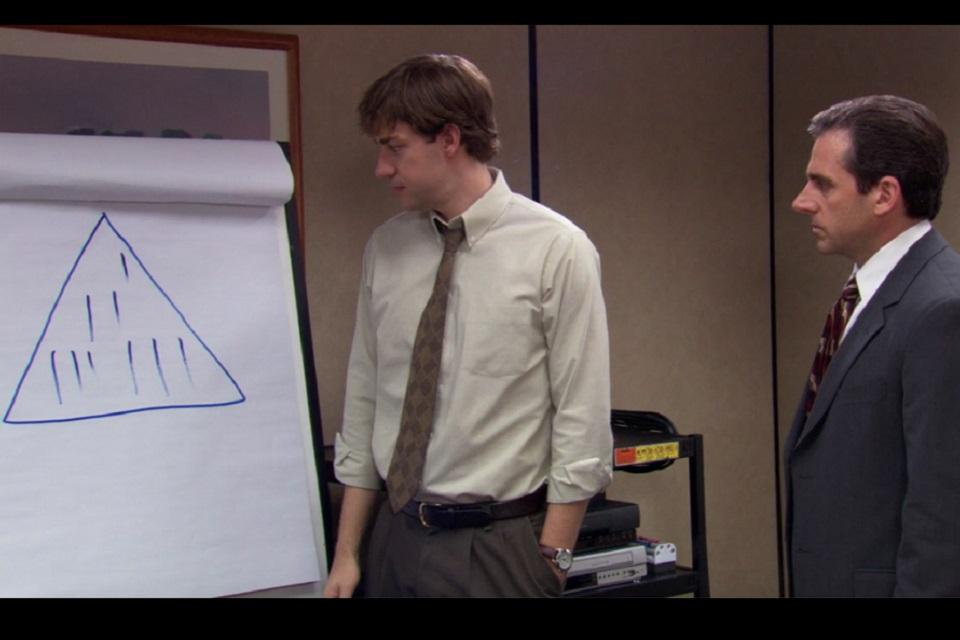
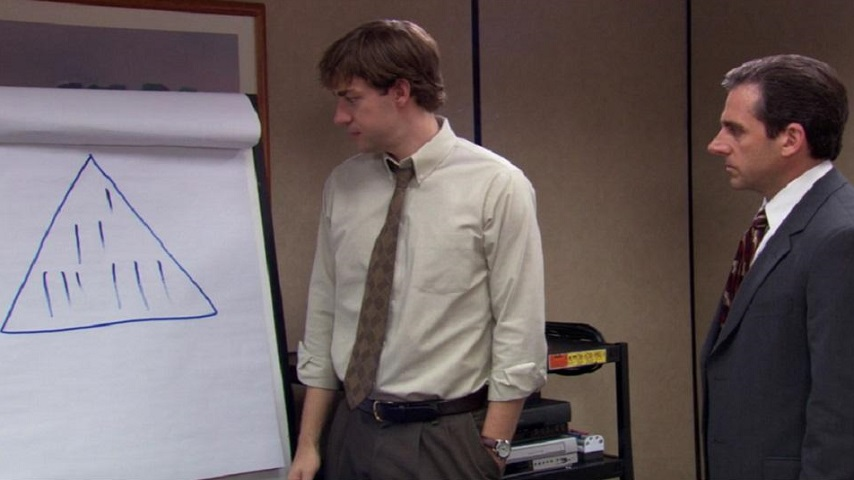
subiendo archivos

diff --git a/scss/views/_personaje-tipo.scss b/scss/views/_personaje-tipo.scss
@@ -52,13 +52,11 @@ body {
             @include boton;
             justify-self: center;
 
-
             a{
                 margin: 0;
                 text-decoration: none;
                 color: $texto-claro;
-            }
-            
+            }          
                             
         }
                             
@@ -96,8 +94,7 @@ body {
             }
 
             h3 {  
-                @include subtitulos-1;
-                /*text-align: left;*/
+                @include subtitulos-2;
                 margin-top: 2rem;
                 margin-bottom: 0;
             }
@@ -135,9 +132,8 @@ body {
             }
 
             h3 {  
-                @include subtitulos-1;
+                @include subtitulos-2;
                 color: $texto-osc;
-                /*text-align: left;*/
                 margin-top: 2rem;
                 margin-bottom: 0;
             }
@@ -145,7 +141,7 @@ body {
         .masEscenaDos {
                             
             grid-area: masEscenaDos;
-            margin-top: 1.5rem;
+            margin-top: 2rem;
             margin-bottom: 1rem;
             @include boton;
             justify-self: center;
@@ -175,9 +171,8 @@ body {
             }
 
             h3 {  
-                @include subtitulos-1;
+                @include subtitulos-2;
                 color: $texto-osc;
-                /*text-align: left;*/
                 margin-top: 2rem;
                 margin-bottom: 0;
             }
@@ -187,7 +182,7 @@ body {
         .masEscenaTres {
                             
             grid-area: masEscenaTres;
-            margin-top: 1.5rem;
+            margin-top: 2rem;
             margin-bottom: 1rem;
             @include boton;
             justify-self: center;
@@ -215,9 +210,8 @@ body {
             }
 
             h3 {  
-                @include subtitulos-1;
+                @include subtitulos-2;
                 color: $texto-osc;
-               /*text-align: left;*/
                 margin-top: 2rem;
                 margin-bottom: 0;
             }
@@ -226,7 +220,7 @@ body {
         .masEscenaCuatro {
                             
             grid-area: masEscenaCuatro;
-            margin-top: 1.5rem;
+            margin-top: 2rem;
             margin-bottom: 1rem;
             @include boton;
             justify-self: center;     

diff --git a/pages/michael-scott.html b/pages/michael-scott.html
@@ -93,7 +93,7 @@
             <h2>Frases celebres de Michael Scott</h2>
 
             <div class="persTipoFraseUno">
-                <h3>"(Sobre los despidos): “¿Si se los voy a decir a todos? No, no tendría sentido. Si fueras médico, no le dirías a tu paciente que tiene cáncer”</h3>
+                <h3>“(Sobre los despidos) Si fueras médico, no le dirías a tu paciente que tiene cáncer”</h3>
                 <img src="../img/world-best-boss.webp" alt="Mejor jefe">
             </div>
 
@@ -102,7 +102,7 @@
             </div>
 
             <div class="persTipoFraseDos">
-                <h3>“La pregunta que me hacen siempre es: ¿prefiero ser temido o amado? Fácil. Ambas. Quiero que la gente tenga miedo de cuánto me ama”</h3>
+                <h3>“¿Prefiero ser temido o amado? Ambas. Que tengan miedo de cuánto me aman”</h3>
                 <img src="../img/michael-loved-feared.jpg" alt="Michael en oficina">
             </div>         
             
@@ -111,7 +111,7 @@
             </div>
 
             <div class="persTipoFraseTres">
-                <h3>“Te pasas la vida intentando que la gente te quiera, pero un día atropellas a un empleado con tu auto, y ya están todos en tu contra. No tiene sentido”.</h3>
+                <h3>“Intentas que la gente te ame, pero un día atropellas a un empleado, y están todos en tu contra”</h3>
                 <img src="../img/meredith-atropellada.png" alt="Meredith atropellada">
             </div>      
 
@@ -120,7 +120,7 @@
             </div>
 
             <div class="persTipoFraseCuatro">
-                <h3>“Algunas veces comienzo una oración y ni siquiera sé qué voy a decir al final. Simplemente espero darme cuenta de ello en el camino”.</h3>
+                <h3>“A veces comienzo una oración y no sé qué voy a decir. Sólo espero encontrarlo en el camino”.</h3>
                 <img src="../img/you-miss-the-shots-you-dont-take.png" alt="Frase motivacional Michael">
             </div>
 

diff --git a/css/styles.css b/css/styles.css
@@ -1331,8 +1331,7 @@ body .contenedorPersTipo {
     body .contenedorPersTipo .persTipoFraseUno h3 {
       font-family: "Port Lligat Sans", sans-serif;
       text-align: left;
-      font-size: 1.4rem;
-      /*text-align: left;*/
+      font-size: 1rem;
       margin-top: 2rem;
       margin-bottom: 0; }
   body .contenedorPersTipo .masEscenaUno {
@@ -1367,14 +1366,13 @@ body .contenedorPersTipo {
     body .contenedorPersTipo .persTipoFraseDos h3 {
       font-family: "Port Lligat Sans", sans-serif;
       text-align: left;
-      font-size: 1.4rem;
+      font-size: 1rem;
       color: #4d4a4a;
-      /*text-align: left;*/
       margin-top: 2rem;
       margin-bottom: 0; }
   body .contenedorPersTipo .masEscenaDos {
     grid-area: masEscenaDos;
-    margin-top: 1.5rem;
+    margin-top: 2rem;
     margin-bottom: 1rem;
     border: none solid 1rem;
     border-radius: 1.1rem;
@@ -1404,14 +1402,13 @@ body .contenedorPersTipo {
     body .contenedorPersTipo .persTipoFraseTres h3 {
       font-family: "Port Lligat Sans", sans-serif;
       text-align: left;
-      font-size: 1.4rem;
+      font-size: 1rem;
       color: #4d4a4a;
-      /*text-align: left;*/
       margin-top: 2rem;
       margin-bottom: 0; }
   body .contenedorPersTipo .masEscenaTres {
     grid-area: masEscenaTres;
-    margin-top: 1.5rem;
+    margin-top: 2rem;
     margin-bottom: 1rem;
     border: none solid 1rem;
     border-radius: 1.1rem;
@@ -1441,14 +1438,13 @@ body .contenedorPersTipo {
     body .contenedorPersTipo .persTipoFraseCuatro h3 {
       font-family: "Port Lligat Sans", sans-serif;
       text-align: left;
-      font-size: 1.4rem;
+      font-size: 1rem;
       color: #4d4a4a;
-      /*text-align: left;*/
       margin-top: 2rem;
       margin-bottom: 0; }
   body .contenedorPersTipo .masEscenaCuatro {
     grid-area: masEscenaCuatro;
-    margin-top: 1.5rem;
+    margin-top: 2rem;
     margin-bottom: 1rem;
     border: none solid 1rem;
     border-radius: 1.1rem;

diff --git a/pages/jim-halpert.html b/pages/jim-halpert.html
@@ -103,8 +103,8 @@
             </div>
 
             <div class="persTipoFraseDos">
-                <h3>Jim le explica a Michael que está siendo victima de una estafa piramidal</h3>
-                <img src="../img/pyramid-scheme.png" alt="estafa piramidal">
+                <h3>Jim explica a Michael que está siendo victima de una estafa piramidal</h3>
+                <img src="../img/pyramid-scheme.jpg" alt="estafa piramidal">
             </div>         
             
             <div class="masEscenaDos">
@@ -121,7 +121,7 @@
             </div>
 
             <div class="persTipoFraseCuatro">
-                <h3>Jim confiesa a Pam que está enamorado de ella, aunque se vaya a casar</h3>
+                <h3>Jim confiesa a Pam que está enamorado de ella, aunque ella se vaya a casar</h3>
                 <img src="../img/casino-night-2.jpg" alt="Casino Night">
             </div>
 
